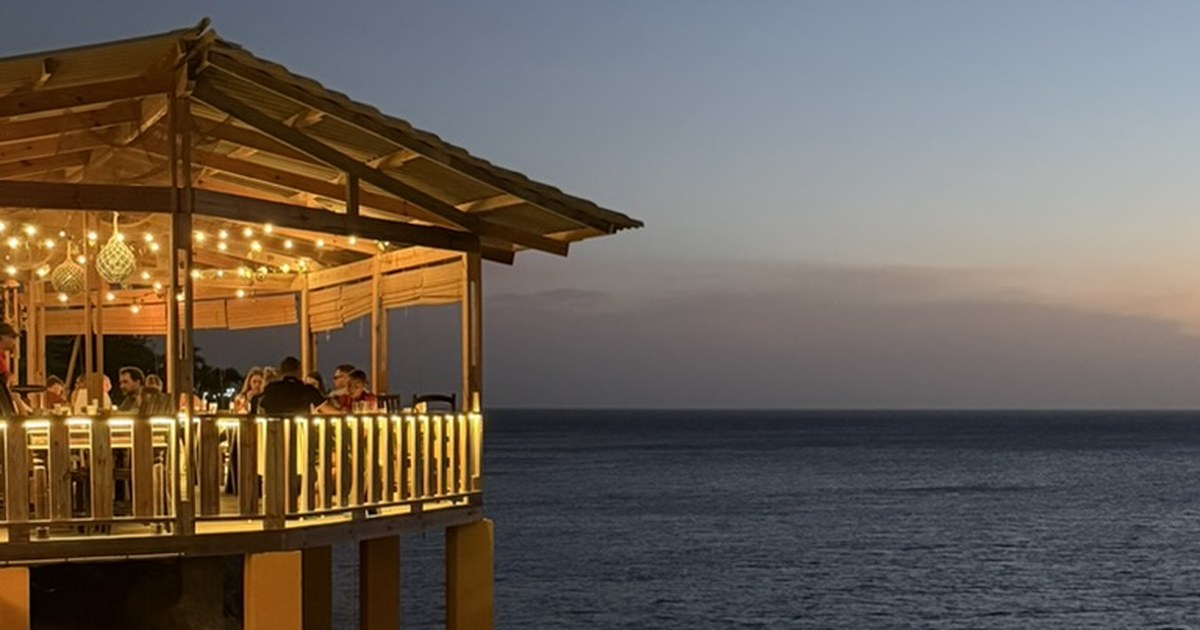
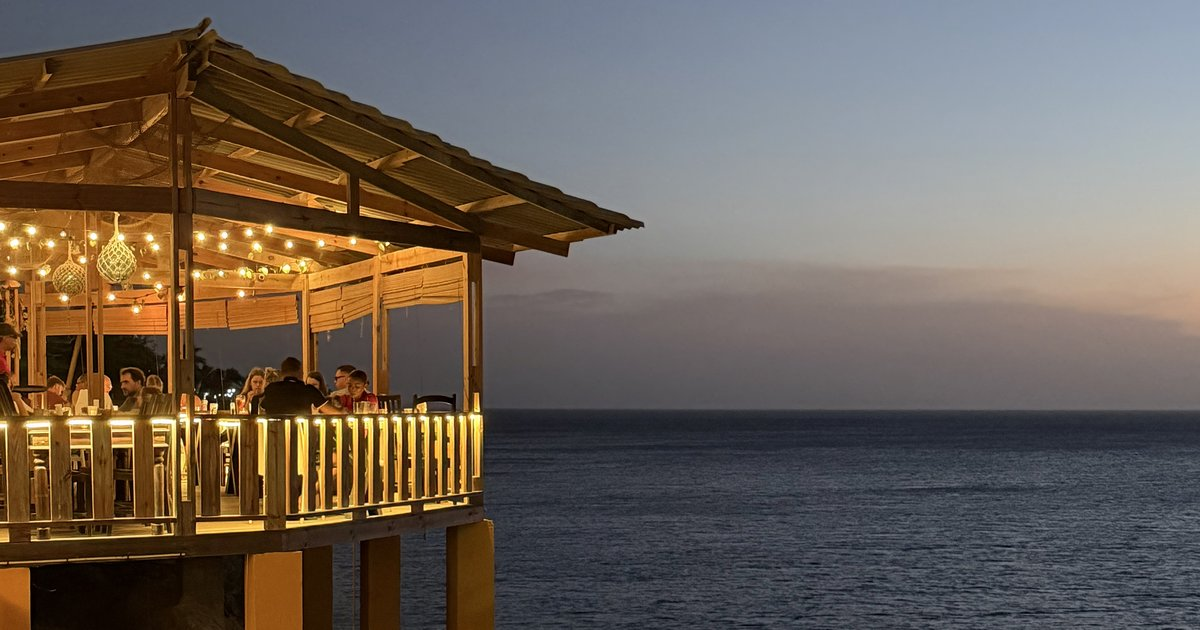
Restaurants page: photos for Playa Forti and Blue View; sharper preview image
Claude-Session: https://claude.ai/code/session_01PkWEMwbowLJHmAGW19yWPn

diff --git a/restaurants.html b/restaurants.html
@@ -63,7 +63,7 @@
   .area-head p { color: var(--text-soft); font-size: 15px; margin-top: 2px; }
 
   .r-grid { display: grid; gap: 16px; }
-  .r-card { background: #fff; border-radius: 12px; overflow: hidden; display: grid; grid-template-columns: 190px minmax(0,1fr); box-shadow: 0 2px 10px rgba(15,52,64,0.07); border: 2px solid transparent; transition: border-color .25s, box-shadow .25s; scroll-margin-top: 80px; }
+  .r-card { background: #fff; border-radius: 12px; overflow: hidden; display: grid; grid-template-columns: 240px minmax(0,1fr); box-shadow: 0 2px 10px rgba(15,52,64,0.07); border: 2px solid transparent; transition: border-color .25s, box-shadow .25s; scroll-margin-top: 80px; }
   .r-card.is-active { border-color: var(--coral); box-shadow: 0 6px 22px rgba(224,122,95,0.22); }
   .r-photo { background: var(--sand-dark); min-height: 100%; }
   .r-photo img { width: 100%; height: 100%; object-fit: cover; display: block; aspect-ratio: 4 / 3; }
@@ -158,7 +158,7 @@
     <header class="area-head"><h2>Westpunt</h2><p>The fishing village at the western tip, around Playa Forti, Playa Piskadó and Playa Kalki.</p></header>
     <div class="r-grid">
       <article class="r-card" id="forti" data-lat="12.36606" data-lng="-69.15396" data-n="1">
-        <!-- PHOTO: save as images/restaurants/forti.jpg (4:3, about 800px wide), then replace this comment with: <div class="r-photo"><img src="images/restaurants/forti.jpg" alt="Restaurant Playa Forti" loading="lazy" width="400" height="300"></div> -->
+        <div class="r-photo"><img src="images/restaurants/forti.jpg" alt="Restaurant Playa Forti" loading="lazy" width="1200" height="900"></div>
         <div class="r-body">
           <div class="r-head"><button class="r-pin" type="button" aria-label="Show Restaurant Playa Forti on the map">1</button><h3>Restaurant Playa Forti</h3></div>
           <p class="r-hours">Daily 10:30 AM–7 PM (to 8 PM Sat–Sun)</p>
@@ -168,7 +168,7 @@
         </div>
       </article>
       <article class="r-card" id="blueview" data-lat="12.36698" data-lng="-69.15352" data-n="2">
-        <!-- PHOTO: save as images/restaurants/blueview.jpg (4:3, about 800px wide), then replace this comment with: <div class="r-photo"><img src="images/restaurants/blueview.jpg" alt="Blue View Sunset Terrace" loading="lazy" width="400" height="300"></div> -->
+        <div class="r-photo"><img src="images/restaurants/blueview.jpg" alt="Blue View Sunset Terrace" loading="lazy" width="1200" height="900"></div>
         <div class="r-body">
           <div class="r-head"><button class="r-pin" type="button" aria-label="Show Blue View Sunset Terrace on the map">2</button><h3>Blue View Sunset Terrace</h3></div>
           <p class="r-hours">Daily 11 AM–8 PM</p>
@@ -178,7 +178,7 @@
         </div>
       </article>
       <article class="r-card" id="jaanchies" data-lat="12.37066" data-lng="-69.15088" data-n="3">
-        <!-- PHOTO: save as images/restaurants/jaanchies.jpg (4:3, about 800px wide), then replace this comment with: <div class="r-photo"><img src="images/restaurants/jaanchies.jpg" alt="Jaanchie&#x27;s Restaurant" loading="lazy" width="400" height="300"></div> -->
+        <!-- PHOTO: save as images/restaurants/jaanchies.jpg (4:3, about 800px wide), then replace this comment with: <div class="r-photo"><img src="images/restaurants/jaanchies.jpg" alt="Jaanchie&#x27;s Restaurant" loading="lazy" width="1200" height="900"></div> -->
         <div class="r-body">
           <div class="r-head"><button class="r-pin" type="button" aria-label="Show Jaanchie&#x27;s Restaurant on the map">3</button><h3>Jaanchie&#x27;s Restaurant</h3><span class="r-kind">Lunch only</span></div>
           <p class="r-hours">1–5 PM, closed Friday</p>
@@ -188,7 +188,7 @@
         </div>
       </article>
       <article class="r-card" id="solfood" data-lat="12.37025" data-lng="-69.15347" data-n="4">
-        <!-- PHOTO: save as images/restaurants/solfood.jpg (4:3, about 800px wide), then replace this comment with: <div class="r-photo"><img src="images/restaurants/solfood.jpg" alt="Sol Food" loading="lazy" width="400" height="300"></div> -->
+        <!-- PHOTO: save as images/restaurants/solfood.jpg (4:3, about 800px wide), then replace this comment with: <div class="r-photo"><img src="images/restaurants/solfood.jpg" alt="Sol Food" loading="lazy" width="1200" height="900"></div> -->
         <div class="r-body">
           <div class="r-head"><button class="r-pin" type="button" aria-label="Show Sol Food on the map">4</button><h3>Sol Food</h3><span class="r-kind">Weekends only</span></div>
           <p class="r-hours">Fri–Sun, 12–8 PM</p>
@@ -198,7 +198,7 @@
         </div>
       </article>
       <article class="r-card" id="sabor" data-lat="12.36995" data-lng="-69.15318" data-n="5">
-        <!-- PHOTO: save as images/restaurants/sabor.jpg (4:3, about 800px wide), then replace this comment with: <div class="r-photo"><img src="images/restaurants/sabor.jpg" alt="Sabor di Playa" loading="lazy" width="400" height="300"></div> -->
+        <!-- PHOTO: save as images/restaurants/sabor.jpg (4:3, about 800px wide), then replace this comment with: <div class="r-photo"><img src="images/restaurants/sabor.jpg" alt="Sabor di Playa" loading="lazy" width="1200" height="900"></div> -->
         <div class="r-body">
           <div class="r-head"><button class="r-pin" type="button" aria-label="Show Sabor di Playa on the map">5</button><h3>Sabor di Playa</h3><span class="r-kind">Sundays only</span></div>
           <p class="r-hours">Sundays only, 9 AM–4 PM</p>
@@ -208,7 +208,7 @@
         </div>
       </article>
       <article class="r-card" id="isabelle" data-lat="12.37287" data-lng="-69.14352" data-n="6">
-        <!-- PHOTO: save as images/restaurants/isabelle.jpg (4:3, about 800px wide), then replace this comment with: <div class="r-photo"><img src="images/restaurants/isabelle.jpg" alt="Isabelle off the Beach" loading="lazy" width="400" height="300"></div> -->
+        <!-- PHOTO: save as images/restaurants/isabelle.jpg (4:3, about 800px wide), then replace this comment with: <div class="r-photo"><img src="images/restaurants/isabelle.jpg" alt="Isabelle off the Beach" loading="lazy" width="1200" height="900"></div> -->
         <div class="r-body">
           <div class="r-head"><button class="r-pin" type="button" aria-label="Show Isabelle off the Beach on the map">6</button><h3>Isabelle off the Beach</h3></div>
           <p class="r-hours">Thu 5–9 PM · Fri–Sat 12–9 PM · Sun 12–8 PM · closed Mon–Wed</p>
@@ -218,7 +218,7 @@
         </div>
       </article>
       <article class="r-card" id="cactus" data-lat="12.37497" data-lng="-69.15612" data-n="7">
-        <!-- PHOTO: save as images/restaurants/cactus.jpg (4:3, about 800px wide), then replace this comment with: <div class="r-photo"><img src="images/restaurants/cactus.jpg" alt="Cactus Café" loading="lazy" width="400" height="300"></div> -->
+        <!-- PHOTO: save as images/restaurants/cactus.jpg (4:3, about 800px wide), then replace this comment with: <div class="r-photo"><img src="images/restaurants/cactus.jpg" alt="Cactus Café" loading="lazy" width="1200" height="900"></div> -->
         <div class="r-body">
           <div class="r-head"><button class="r-pin" type="button" aria-label="Show Cactus Café on the map">7</button><h3>Cactus Café</h3></div>
           <p class="r-hours">Mon–Thu 5–9 PM · Sat–Sun 12–3 PM and 5–9 PM · closed Friday</p>
@@ -228,7 +228,7 @@
         </div>
       </article>
       <article class="r-card" id="mamakunuku" data-lat="12.37793" data-lng="-69.15754" data-n="8">
-        <!-- PHOTO: save as images/restaurants/mamakunuku.jpg (4:3, about 800px wide), then replace this comment with: <div class="r-photo"><img src="images/restaurants/mamakunuku.jpg" alt="Mama Kunuku" loading="lazy" width="400" height="300"></div> -->
+        <!-- PHOTO: save as images/restaurants/mamakunuku.jpg (4:3, about 800px wide), then replace this comment with: <div class="r-photo"><img src="images/restaurants/mamakunuku.jpg" alt="Mama Kunuku" loading="lazy" width="1200" height="900"></div> -->
         <div class="r-body">
           <div class="r-head"><button class="r-pin" type="button" aria-label="Show Mama Kunuku on the map">8</button><h3>Mama Kunuku</h3></div>
           <p class="r-hours">Daily 8 AM–10 PM</p>
@@ -238,7 +238,7 @@
         </div>
       </article>
       <article class="r-card" id="kofikalki" data-lat="12.37534" data-lng="-69.15747" data-n="9">
-        <!-- PHOTO: save as images/restaurants/kofikalki.jpg (4:3, about 800px wide), then replace this comment with: <div class="r-photo"><img src="images/restaurants/kofikalki.jpg" alt="Kòfi Kalki" loading="lazy" width="400" height="300"></div> -->
+        <!-- PHOTO: save as images/restaurants/kofikalki.jpg (4:3, about 800px wide), then replace this comment with: <div class="r-photo"><img src="images/restaurants/kofikalki.jpg" alt="Kòfi Kalki" loading="lazy" width="1200" height="900"></div> -->
         <div class="r-body">
           <div class="r-head"><button class="r-pin" type="button" aria-label="Show Kòfi Kalki on the map">9</button><h3>Kòfi Kalki</h3><span class="r-kind">Coffee</span></div>
           <p class="r-hours">Daily 7:45 AM–3:30 PM</p>
@@ -254,7 +254,7 @@
     <header class="area-head"><h2>Christoffel</h2><p>At the entrance to Christoffel National Park, on the northern road.</p></header>
     <div class="r-grid">
       <article class="r-card" id="kofihowz" data-lat="12.34963" data-lng="-69.10665" data-n="10">
-        <!-- PHOTO: save as images/restaurants/kofihowz.jpg (4:3, about 800px wide), then replace this comment with: <div class="r-photo"><img src="images/restaurants/kofihowz.jpg" alt="Kofihowz" loading="lazy" width="400" height="300"></div> -->
+        <!-- PHOTO: save as images/restaurants/kofihowz.jpg (4:3, about 800px wide), then replace this comment with: <div class="r-photo"><img src="images/restaurants/kofihowz.jpg" alt="Kofihowz" loading="lazy" width="1200" height="900"></div> -->
         <div class="r-body">
           <div class="r-head"><button class="r-pin" type="button" aria-label="Show Kofihowz on the map">10</button><h3>Kofihowz</h3><span class="r-kind">Coffee &amp; light food</span></div>
           <p class="r-hours">7 AM–2 PM, closed Tuesday</p>
@@ -270,7 +270,7 @@
     <header class="area-head"><h2>Lagun</h2><p>A small village around one of the best snorkeling coves on the island.</p></header>
     <div class="r-grid">
       <article class="r-card" id="bahia" data-lat="12.31844" data-lng="-69.15074" data-n="11">
-        <!-- PHOTO: save as images/restaurants/bahia.jpg (4:3, about 800px wide), then replace this comment with: <div class="r-photo"><img src="images/restaurants/bahia.jpg" alt="Bahia Restaurant" loading="lazy" width="400" height="300"></div> -->
+        <!-- PHOTO: save as images/restaurants/bahia.jpg (4:3, about 800px wide), then replace this comment with: <div class="r-photo"><img src="images/restaurants/bahia.jpg" alt="Bahia Restaurant" loading="lazy" width="1200" height="900"></div> -->
         <div class="r-body">
           <div class="r-head"><button class="r-pin" type="button" aria-label="Show Bahia Restaurant on the map">11</button><h3>Bahia Restaurant</h3></div>
           <p class="r-hours">Daily 9 AM–9 PM</p>
@@ -280,7 +280,7 @@
         </div>
       </article>
       <article class="r-card" id="dibario" data-lat="12.32055" data-lng="-69.15118" data-n="12">
-        <!-- PHOTO: save as images/restaurants/dibario.jpg (4:3, about 800px wide), then replace this comment with: <div class="r-photo"><img src="images/restaurants/dibario.jpg" alt="Dibario" loading="lazy" width="400" height="300"></div> -->
+        <!-- PHOTO: save as images/restaurants/dibario.jpg (4:3, about 800px wide), then replace this comment with: <div class="r-photo"><img src="images/restaurants/dibario.jpg" alt="Dibario" loading="lazy" width="1200" height="900"></div> -->
         <div class="r-body">
           <div class="r-head"><button class="r-pin" type="button" aria-label="Show Dibario on the map">12</button><h3>Dibario</h3></div>
           <p class="r-hours">Closed Tuesday. Hours aren&#x27;t posted, so call ahead.</p>
@@ -296,7 +296,7 @@
     <header class="area-head"><h2>Santa Cruz</h2><p>Inland from Playa Santa Cruz, around the Hòfi Mango park.</p></header>
     <div class="r-grid">
       <article class="r-card" id="kultura" data-lat="12.30531" data-lng="-69.13545" data-n="13">
-        <!-- PHOTO: save as images/restaurants/kultura.jpg (4:3, about 800px wide), then replace this comment with: <div class="r-photo"><img src="images/restaurants/kultura.jpg" alt="Kultura Kòrsou" loading="lazy" width="400" height="300"></div> -->
+        <!-- PHOTO: save as images/restaurants/kultura.jpg (4:3, about 800px wide), then replace this comment with: <div class="r-photo"><img src="images/restaurants/kultura.jpg" alt="Kultura Kòrsou" loading="lazy" width="1200" height="900"></div> -->
         <div class="r-body">
           <div class="r-head"><button class="r-pin" type="button" aria-label="Show Kultura Kòrsou on the map">13</button><h3>Kultura Kòrsou</h3><span class="r-kind">At Hòfi Mango</span></div>
           <p class="r-hours">Wed–Sun 10 AM–6 PM (kitchen closes 4 PM, bar bites until 5) · closed Mon–Tue</p>
@@ -306,7 +306,7 @@
         </div>
       </article>
       <article class="r-card" id="shelterrock" data-lat="12.30489" data-lng="-69.11347" data-n="14">
-        <!-- PHOTO: save as images/restaurants/shelterrock.jpg (4:3, about 800px wide), then replace this comment with: <div class="r-photo"><img src="images/restaurants/shelterrock.jpg" alt="Shelterrock Paradise" loading="lazy" width="400" height="300"></div> -->
+        <!-- PHOTO: save as images/restaurants/shelterrock.jpg (4:3, about 800px wide), then replace this comment with: <div class="r-photo"><img src="images/restaurants/shelterrock.jpg" alt="Shelterrock Paradise" loading="lazy" width="1200" height="900"></div> -->
         <div class="r-body">
           <div class="r-head"><button class="r-pin" type="button" aria-label="Show Shelterrock Paradise on the map">14</button><h3>Shelterrock Paradise</h3></div>
           <p class="r-hours">Mon 4–8 PM · Tue–Thu 1:30–8 PM · Fri 6:30–11 PM · Sat 12–8 PM · Sun 12–6 PM</p>
@@ -322,7 +322,7 @@
     <header class="area-head"><h2>Barber</h2><p>The main village on the northern road, about halfway to Westpunt.</p></header>
     <div class="r-grid">
       <article class="r-card" id="marshe" data-lat="12.29027" data-lng="-69.07503" data-n="15">
-        <!-- PHOTO: save as images/restaurants/marshe.jpg (4:3, about 800px wide), then replace this comment with: <div class="r-photo"><img src="images/restaurants/marshe.jpg" alt="Marshe di Barber" loading="lazy" width="400" height="300"></div> -->
+        <!-- PHOTO: save as images/restaurants/marshe.jpg (4:3, about 800px wide), then replace this comment with: <div class="r-photo"><img src="images/restaurants/marshe.jpg" alt="Marshe di Barber" loading="lazy" width="1200" height="900"></div> -->
         <div class="r-body">
           <div class="r-head"><button class="r-pin" type="button" aria-label="Show Marshe di Barber on the map">15</button><h3>Marshe di Barber</h3><span class="r-kind">Sunday market</span></div>
           <p class="r-hours">Sundays only, 7:30 AM–7 PM</p>
@@ -332,7 +332,7 @@
         </div>
       </article>
       <article class="r-card" id="komedor" data-lat="12.27669" data-lng="-69.07193" data-n="16">
-        <!-- PHOTO: save as images/restaurants/komedor.jpg (4:3, about 800px wide), then replace this comment with: <div class="r-photo"><img src="images/restaurants/komedor.jpg" alt="Komedor Krioyo" loading="lazy" width="400" height="300"></div> -->
+        <!-- PHOTO: save as images/restaurants/komedor.jpg (4:3, about 800px wide), then replace this comment with: <div class="r-photo"><img src="images/restaurants/komedor.jpg" alt="Komedor Krioyo" loading="lazy" width="1200" height="900"></div> -->
         <div class="r-body">
           <div class="r-head"><button class="r-pin" type="button" aria-label="Show Komedor Krioyo on the map">16</button><h3>Komedor Krioyo</h3><span class="r-kind">Landhuis Dokterstuin</span></div>
           <p class="r-hours">Tue–Sun 10 AM–5 PM, closed Monday. Call to confirm.</p>
@@ -348,7 +348,7 @@
     <header class="area-head"><h2>Soto &amp; Cas Abou</h2><p>The coast road between Santa Cruz and the turnoff for Cas Abou and Porto Mari.</p></header>
     <div class="r-grid">
       <article class="r-card" id="kleinsantamartha" data-lat="12.28073" data-lng="-69.11555" data-n="17">
-        <!-- PHOTO: save as images/restaurants/kleinsantamartha.jpg (4:3, about 800px wide), then replace this comment with: <div class="r-photo"><img src="images/restaurants/kleinsantamartha.jpg" alt="Landhuis Klein Santa Martha" loading="lazy" width="400" height="300"></div> -->
+        <!-- PHOTO: save as images/restaurants/kleinsantamartha.jpg (4:3, about 800px wide), then replace this comment with: <div class="r-photo"><img src="images/restaurants/kleinsantamartha.jpg" alt="Landhuis Klein Santa Martha" loading="lazy" width="1200" height="900"></div> -->
         <div class="r-body">
           <div class="r-head"><button class="r-pin" type="button" aria-label="Show Landhuis Klein Santa Martha on the map">17</button><h3>Landhuis Klein Santa Martha</h3></div>
           <p class="r-hours">Daily, about 8 AM–10 PM. Call to confirm.</p>
@@ -358,7 +358,7 @@
         </div>
       </article>
       <article class="r-card" id="lanternu" data-lat="12.25182" data-lng="-69.07091" data-n="18">
-        <!-- PHOTO: save as images/restaurants/lanternu.jpg (4:3, about 800px wide), then replace this comment with: <div class="r-photo"><img src="images/restaurants/lanternu.jpg" alt="Bistro e Lanternu" loading="lazy" width="400" height="300"></div> -->
+        <!-- PHOTO: save as images/restaurants/lanternu.jpg (4:3, about 800px wide), then replace this comment with: <div class="r-photo"><img src="images/restaurants/lanternu.jpg" alt="Bistro e Lanternu" loading="lazy" width="1200" height="900"></div> -->
         <div class="r-body">
           <div class="r-head"><button class="r-pin" type="button" aria-label="Show Bistro e Lanternu on the map">18</button><h3>Bistro e Lanternu</h3><span class="r-kind">Dinner only</span></div>
           <p class="r-hours">Thu–Mon 5–8:30 PM, closed Tue–Wed</p>
@@ -374,7 +374,7 @@
     <header class="area-head"><h2>Sint Willibrordus</h2><p>Flamingo country: the salt pans, the WILLIWOOD sign, and Coral Estate on the coast.</p></header>
     <div class="r-grid">
       <article class="r-card" id="marfa" data-lat="12.21514" data-lng="-69.05881" data-n="19">
-        <!-- PHOTO: save as images/restaurants/marfa.jpg (4:3, about 800px wide), then replace this comment with: <div class="r-photo"><img src="images/restaurants/marfa.jpg" alt="Marfa&#x27;s Good Hangout" loading="lazy" width="400" height="300"></div> -->
+        <!-- PHOTO: save as images/restaurants/marfa.jpg (4:3, about 800px wide), then replace this comment with: <div class="r-photo"><img src="images/restaurants/marfa.jpg" alt="Marfa&#x27;s Good Hangout" loading="lazy" width="1200" height="900"></div> -->
         <div class="r-body">
           <div class="r-head"><button class="r-pin" type="button" aria-label="Show Marfa&#x27;s Good Hangout on the map">19</button><h3>Marfa&#x27;s Good Hangout</h3></div>
           <p class="r-hours">10 AM–10 PM (Sun from 11 AM), closed Tuesday</p>
@@ -384,7 +384,7 @@
         </div>
       </article>
       <article class="r-card" id="karakter" data-lat="12.1981" data-lng="-69.07897" data-n="20">
-        <!-- PHOTO: save as images/restaurants/karakter.jpg (4:3, about 800px wide), then replace this comment with: <div class="r-photo"><img src="images/restaurants/karakter.jpg" alt="Karakter" loading="lazy" width="400" height="300"></div> -->
+        <!-- PHOTO: save as images/restaurants/karakter.jpg (4:3, about 800px wide), then replace this comment with: <div class="r-photo"><img src="images/restaurants/karakter.jpg" alt="Karakter" loading="lazy" width="1200" height="900"></div> -->
         <div class="r-body">
           <div class="r-head"><button class="r-pin" type="button" aria-label="Show Karakter on the map">20</button><h3>Karakter</h3><span class="r-kind">Beach club</span></div>
           <p class="r-hours">Daily 8 AM–9 PM</p>
@@ -394,7 +394,7 @@
         </div>
       </article>
       <article class="r-card" id="koraal" data-lat="12.19828" data-lng="-69.07874" data-n="21">
-        <!-- PHOTO: save as images/restaurants/koraal.jpg (4:3, about 800px wide), then replace this comment with: <div class="r-photo"><img src="images/restaurants/koraal.jpg" alt="Koraal Rooftop Terrace" loading="lazy" width="400" height="300"></div> -->
+        <!-- PHOTO: save as images/restaurants/koraal.jpg (4:3, about 800px wide), then replace this comment with: <div class="r-photo"><img src="images/restaurants/koraal.jpg" alt="Koraal Rooftop Terrace" loading="lazy" width="1200" height="900"></div> -->
         <div class="r-body">
           <div class="r-head"><button class="r-pin" type="button" aria-label="Show Koraal Rooftop Terrace on the map">21</button><h3>Koraal Rooftop Terrace</h3></div>
           <p class="r-hours">Daily 10 AM–10 PM</p>
@@ -410,7 +410,7 @@
     <header class="area-head"><h2>Tera Kora</h2><p>Where Banda Abou begins, just past the windmills.</p></header>
     <div class="r-grid">
       <article class="r-card" id="daniel" data-lat="12.21081" data-lng="-69.01959" data-n="22">
-        <!-- PHOTO: save as images/restaurants/daniel.jpg (4:3, about 800px wide), then replace this comment with: <div class="r-photo"><img src="images/restaurants/daniel.jpg" alt="Landhuis Daniel" loading="lazy" width="400" height="300"></div> -->
+        <!-- PHOTO: save as images/restaurants/daniel.jpg (4:3, about 800px wide), then replace this comment with: <div class="r-photo"><img src="images/restaurants/daniel.jpg" alt="Landhuis Daniel" loading="lazy" width="1200" height="900"></div> -->
         <div class="r-body">
           <div class="r-head"><button class="r-pin" type="button" aria-label="Show Landhuis Daniel on the map">22</button><h3>Landhuis Daniel</h3></div>
           <p class="r-hours">Breakfast and lunch 8 AM–2 PM, dinner 5–10 PM (Mon from noon)</p>
